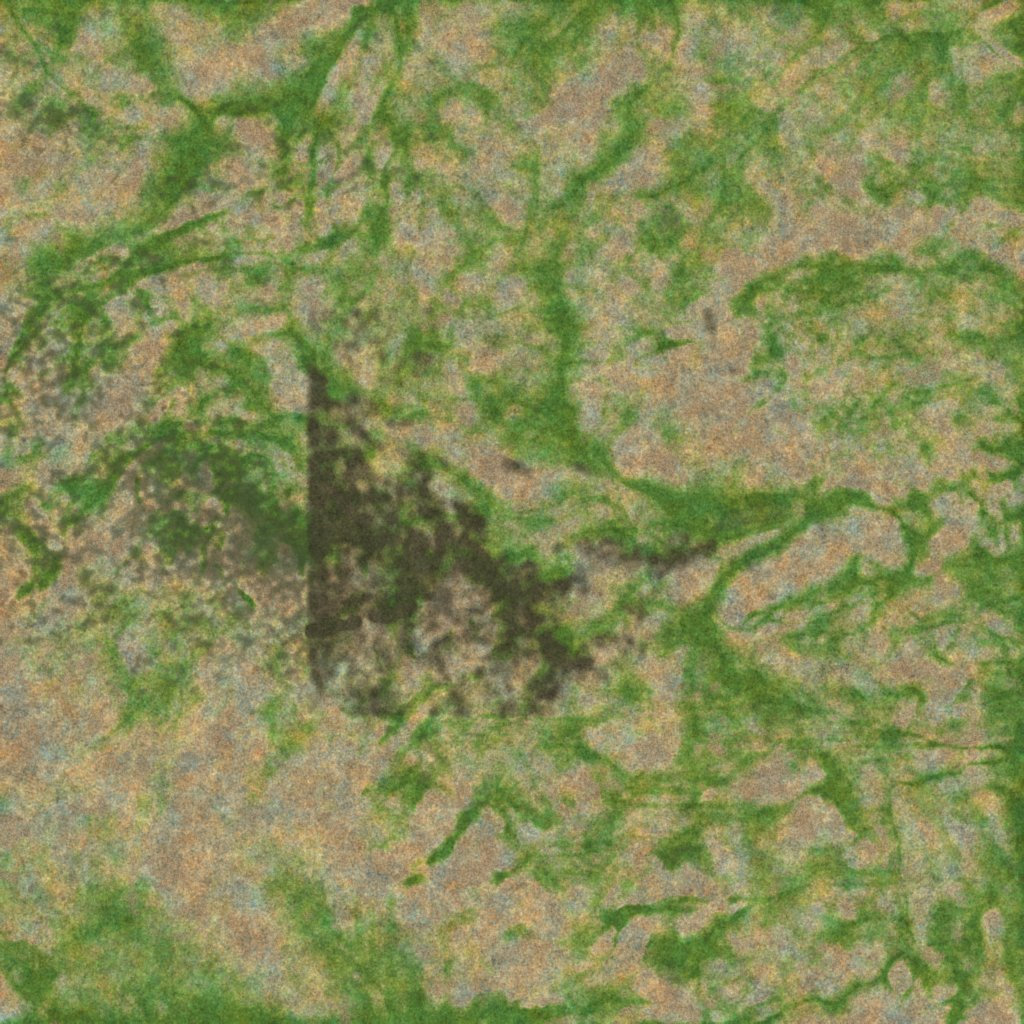
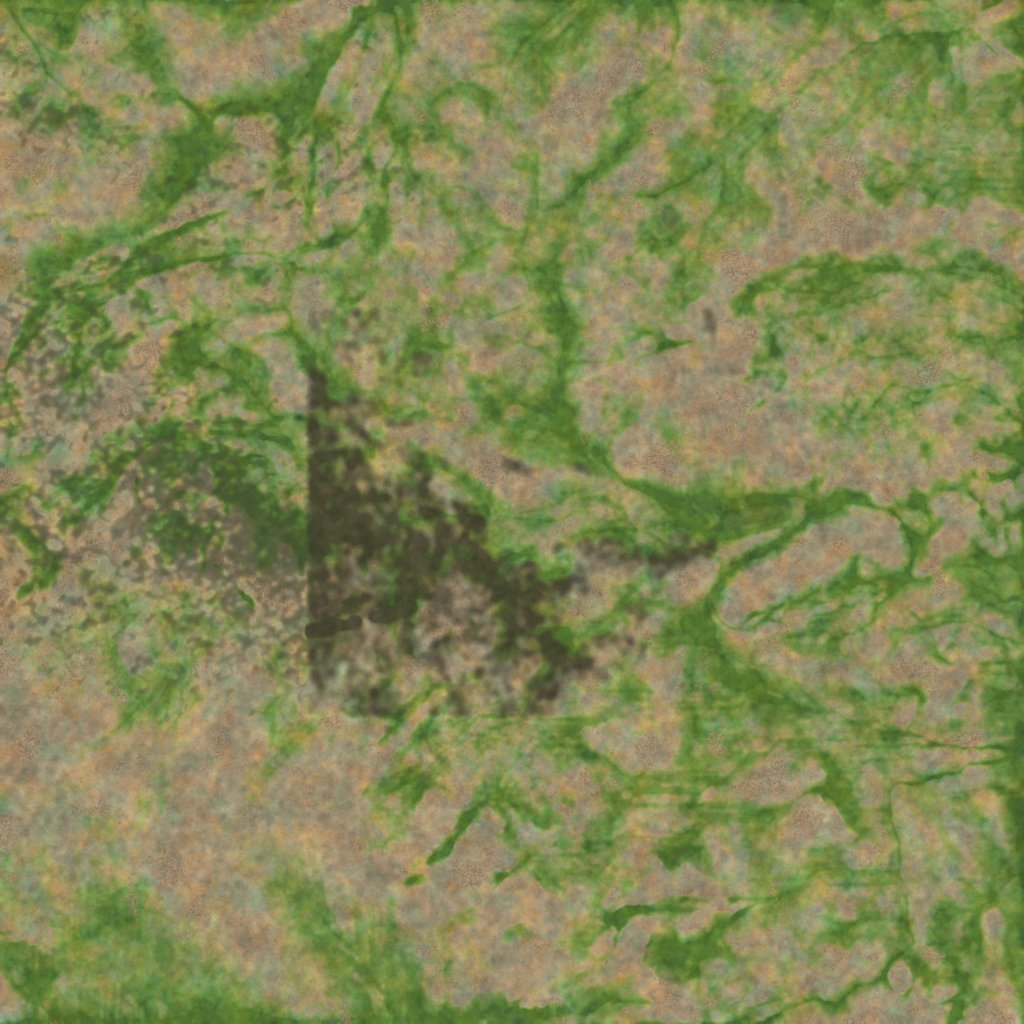
Restore the drive apron, keep the mosaic to broad colour, draw sharp ground detail
The apron and arms are now an exact outline with a crisp rough edge and one
measured colour; tyre marks come from the mosaic as local contrast. The mosaic
contributes only median-filtered broad colour, so its projected streaks are gone.
Detail tiles are drawn, seamless dirt, stones, dry grass and fine lawn, since
tiles cut from frames carried props and people. Sage is warmer and narrower, and
the drive test uses the measured line.

Claude-Session: https://claude.ai/code/session_019pqh1fvVUqx4GsF4tEr7sH

diff --git a/assets/ground-detail.js b/assets/ground-detail.js
@@ -149,19 +149,20 @@ export function createGroundDetail(half,driveway,sunDir){
       vec3 masks=texture2D(roadMask,vec2(localMask.x,1.-localMask.y)).rgb*inMask.x*inMask.y;
       float road=smoothstep(.3,.6,masks.r+(tiny.r*.6+fine.g*.4-.5)*.35);
       // Past where the drone frames resolve the drive, the wheel tracks are drawn.
-      float drawn=road*smoothstep(3.,8.,landUV.x);
-      float centre=smoothstep(.1,.2,masks.r)*(1.-road)*smoothstep(3.,8.,landUV.x),tuftsHere=smoothstep(.38,.58,fine.g*.55+tiny.r*.45);near=mix(near,vec3(.5,.58,.3)*(.8+fine.g*.4),centre*tuftsHere*.92);drawn=max(drawn,centre*(1.-tuftsHere));
+      float drawn=road*smoothstep(-1.,2.,landUV.x);
+      float centre=smoothstep(.1,.2,masks.r)*(1.-road)*smoothstep(-1.,2.,landUV.x),tuftsHere=smoothstep(.38,.58,fine.g*.55+tiny.r*.45);near=mix(near,vec3(.5,.58,.3)*(.8+fine.g*.4),centre*tuftsHere*.92);drawn=max(drawn,centre*(1.-tuftsHere));
       near=mix(near,vec3(.79,.76,.71)*(.88+fine.r*.24),drawn*.95);
       // Mown lawn: a fine sward, mown in stripes that swing a little.
-      float mown=smoothstep(.25,.6,masks.g);
-      if(mown>0.){float stripe=sin(dot(landUV,vec2(.34,.94))*1.9+sin(landUV.x*.07)*1.4);vec3 sward=mix(vec3(.4,.5,.21),vec3(.47,.56,.25),smoothstep(-.2,.2,stripe));sward*=.9+mid.g*.14+tiny.b*.1;near=mix(near,sward,mown*.93);}
+      float mown=smoothstep(.25,.6,masks.g)*(1.-smoothstep(.05,.4,masks.r));
+      if(mown>0.){float stripe=sin(dot(landUV,vec2(.34,.94))*1.9+sin(landUV.x*.07)*1.4);vec3 sward=mix(vec3(.4,.5,.22),vec3(.5,.58,.27),smoothstep(-.16,.16,stripe));sward*=.92+mid.g*.14;near=mix(near,sward,mown*.93);}
       // Real ground from the drone stills, in two sizes so it does not repeat, by what the map says is here.
       float close=1.-smoothstep(70.,300.,distance(cameraPosition,detailWorld));
       vec2 w2=vec2(landUV.x*.8-landUV.y*.6,landUV.x*.6+landUV.y*.8);
-      vec3 dA=texture2D(tileDry,landUV/10.24).rgb,dB=texture2D(tileDry,w2/23.7).rgb,gA=texture2D(tileGreen,landUV/10.24).rgb,gB=texture2D(tileGreen,w2/17.3).rgb;
+      vec3 dA=texture2D(tileDry,landUV/7.).rgb,dB=texture2D(tileDry,w2/16.3).rgb,gA=texture2D(tileGreen,landUV/3.1).rgb,gB=texture2D(tileGreen,w2/7.7).rgb;
       float greenish=smoothstep(-.01,.07,near.g-near.r);
       vec3 grain=mix(dA*.65+dB*.35,gA*.65+gB*.35,greenish);
-      grain=mix(grain,texture2D(tileRoad,landUV/5.12).rgb,road);
+      grain=mix(grain,(gA*.45+gB*.25+texture2D(tileGreen,w2/1.7).rgb*.3),mown);
+      grain=mix(grain,texture2D(tileRoad,landUV/3.3).rgb*.6+texture2D(tileRoad,w2/8.3).rgb*.4,road);
       near*=mix(vec3(1.),grain*2.,close);
       near=pow(max(near,vec3(.0)),vec3(2.2))/1.8;
       vec2 paintUV=vec2(landUV.x/(2.*paintHalf)+.5,.5-landUV.y/(2.*paintHalf));
@@ -183,7 +184,7 @@ export function createGroundDetail(half,driveway,sunDir){
       diffuseColor.rgb=mix(diffuseColor.rgb,${shown('#7a5a42')}*(.75+fine.a*.5),clamp(baked.b*1.5,0.,1.)*(.25+tiny.r*.45));
       diffuseColor.rgb*=1.-baked.g*.42;
       diffuseColor.rgb*=mix(vec3(1.),vec3(.44,.49,.62),clamp(baked.r*2.,0.,1.)*castStrength);`);
-  };material.customProgramCacheKey=()=> 'montana-ground-detail-v14';}};
+  };material.customProgramCacheKey=()=> 'montana-ground-detail-v16';}};
 }
 export function rockGeometry(seed,detail=2){
   const g=new THREE.IcosahedronGeometry(1,detail),p=g.attributes.position,col=new Float32Array(p.count*3);

diff --git a/assets/forest/shrubs.js b/assets/forest/shrubs.js
@@ -85,11 +85,11 @@ function sageForm({seed,mounds,spread,tufts,size,bare=0,flat=1}){
 }
 
 export const SAGE_FORMS=[
- {name:'sage_round',label:'Sage, tufted round',defaultHeight:1.1,form:{seed:7101,mounds:5,spread:.68,tufts:190,size:0.24}},
- {name:'sage_round2',label:'Sage, tufted lopsided',defaultHeight:1,form:{seed:7244,mounds:6,spread:.82,tufts:210,size:0.25}},
- {name:'sage_low',label:'Sage, low spreading patch',defaultHeight:.55,form:{seed:7355,mounds:7,spread:1.25,tufts:220,size:0.36,flat:.9}},
- {name:'sage_woody',label:'Sage, tall and woody',defaultHeight:2.2,form:{seed:7466,mounds:4,spread:.58,tufts:170,size:0.2,bare:.2}},
- {name:'sage_sprawl',label:'Sage, old and sprawling',defaultHeight:1.3,form:{seed:7577,mounds:7,spread:.95,tufts:200,size:0.24,bare:.08}},
+ {name:'sage_round',label:'Sage, tufted round',defaultHeight:1.1,form:{seed:7101,mounds:5,spread:.61,tufts:190,size:0.24}},
+ {name:'sage_round2',label:'Sage, tufted lopsided',defaultHeight:1,form:{seed:7244,mounds:6,spread:.67,tufts:210,size:0.25}},
+ {name:'sage_low',label:'Sage, low spreading patch',defaultHeight:.55,form:{seed:7355,mounds:7,spread:1.15,tufts:220,size:0.36,flat:.9}},
+ {name:'sage_woody',label:'Sage, tall and woody',defaultHeight:2.2,form:{seed:7466,mounds:4,spread:.52,tufts:170,size:0.2,bare:.2}},
+ {name:'sage_sprawl',label:'Sage, old and sprawling',defaultHeight:1.3,form:{seed:7577,mounds:7,spread:.84,tufts:200,size:0.24,bare:.08}},
 ];
 
 // -> species for a Forest, in SAGE_FORMS order.
@@ -97,7 +97,7 @@ export function buildShrubSpecies(){
  const map=sprayTexture();
  return SAGE_FORMS.map(({name,label,defaultHeight,form})=>{
   const {leaf,wood}=sageForm(form);
-  const woodMat=new THREE.MeshStandardMaterial({vertexColors:true,roughness:1,metalness:0,name:'bark'}),leafMat=new THREE.MeshStandardMaterial({map,color:new THREE.Color().setRGB(.72,.72,.63),alphaTest:.42,side:THREE.DoubleSide,roughness:1,metalness:0,vertexColors:true,name:'leaf'});
+  const woodMat=new THREE.MeshStandardMaterial({vertexColors:true,roughness:1,metalness:0,name:'bark'}),leafMat=new THREE.MeshStandardMaterial({map,color:new THREE.Color().setRGB(.78,.75,.62),alphaTest:.42,side:THREE.DoubleSide,roughness:1,metalness:0,vertexColors:true,name:'leaf'});
   const root=new THREE.Group();root.add(new THREE.Mesh(wood,woodMat),new THREE.Mesh(leaf,leafMat));
   return {name,label,defaultHeight,height:1,root,parts:[{geometry:wood,material:woodMat},{geometry:leaf,material:leafMat}],tint:false,soften:.25,spec:.08,coverage:true,sway:.12,
    shape:{lump:.14,mix:.7,dark:.42,tip:.18,olive:0,branchDark:.5,under:.12,glow:.05},triangles:(wood.index.count+leaf.index.count)/3};
